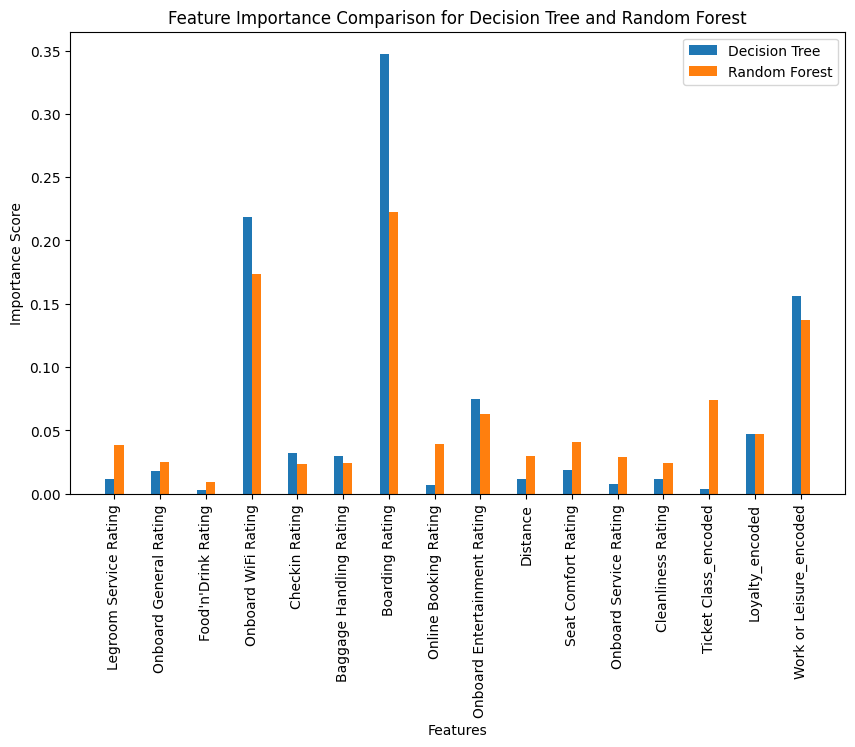
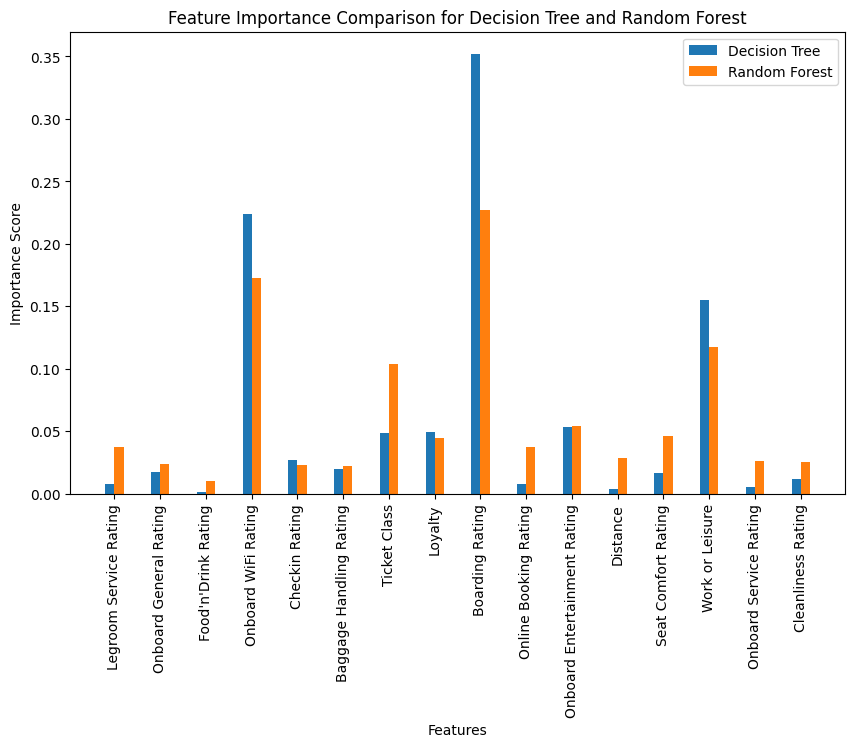
Last commit

diff --git a/README.md b/README.md
@@ -87,13 +87,13 @@ As our target variable, 'Satisfied,' is categorical, and our objective is to pre
 Learning curves illustrate how a model's performance evolves as it's trained on varying amounts of data, revealing insights into overfitting, underfitting, and the impact of dataset size on model accuracy. Learning curves are crucial because they show how the model's performance varies with the size of the training set. They can reveal issues such as overfitting or underfitting. In addition, they can help us determine whether collecting more data would be useful. In this section, we are going to visualize and comment the learning curves for each model.
 - 6.1) Logistic Regression: The learning curve for the logistic regression model is reported in the following plot: <br>  
 <img src="images/Learning_Curve_Logistic_Regression.png" width="500" height="400"> <br>  
-As we can see, the training score and the cross validation score converges to a value that is not really high, indicating that the model is still not enough complex. However, the fact that the results are the same for both the training and the validation set indicates that the model is not overfitting. 
+As we can see, the learning curve present a strange behavior: the training score is at its maximum with a lower amount of data, then it starts decreasing (maybe because the model becoming less complex). This idea is supported by the fact that the learning curve is initially increasing in the validation set. However, the two curves converges at the value 0.87, which is not a really bad result. In addition, since the performance on unseen data is increasing, the model is improving its ability to generalize.
 - 6.2) Decision Tree: The learning curve for the decision tree model is reported in the following plot: <br>  
 <img src="images/Learning_Curve_Decision_Tree.png" width="500" height="400"> <br>
 In this plot, we can observe that the training score is always higher than the cross validation score: decision trees are indeed prone to overfitting. However, even if the training score is higher than the cross validation score, the two scores are really close with a large amount of data, indicating that the model is improving its ability to generalize.
 - 6.3) Random Forest: The learning curve for the random forest model is reported in the following plot: <br>
 <img src="images/Learning_Curve_Random_Forests.png" width="500" height="400"> <br>
-In this plot, we can observe that the training score is always higher than the cross validation score: random forests are indeed prone to overfitting. However, in this case the training score is decreasing, indicating that the model is becoming less complex, improving its ability to generalize. In addittion, the performance on unseen data is increasing, indicating, confirming the previous statement.
+In this plot, we can observe that the training score is almost constant: the model is slightly overfitting, even if the validation score is increasing and its value is higher than the validation score of the decision tree model. In addition, the two curves are starting to converge, indicating that the model is improving its ability to generalize.
 
 
 ### 7) Models Evaluation
@@ -167,7 +167,7 @@ After the hyperparameter tuning, we evaluated the models' performance using the 
 <img src="images/Confusion_Matrices.png" width="700" height="200"> <br>
 <br> The confusion matrix plots on the y axis the actual value of the target variable for a given set of features and on the x axis the predicted value. It shows the number of true positives (1 on the y axis and 1 on the x axis), true negatives (0 on the y axis and 0 on the x axis), false positives (0 on the y axis and 1 on the x axis) and false negatives (1 on the y axis and 0 on the x axis). In particular, we can observe that the Random Forest model has the best performance, since it has the highest number of true positives and true negatives, and the lowest number of false positives and false negatives.  
 Another relevant metric to evaluate the model's performance is the ROC-AUC score, which is a measure of the model's ability to distinguish between classes. The ROC-AUC score is computed by plotting the true positive rate (sensitivity) against the false positive rate (1-specificity) for different threshold values. The area under the ROC curve (AUC-ROC) quantifies the model's overall performance, with a higher AUC indicating better discriminatory power. The ROC curves for each model are reported in the following plot:  <br>  
-![GETTING STARTED](/images/ROC_Curves.png)
+<img src="images/ROC_Curves.png" width="700" height="400"> <br>
 
 
 
@@ -182,14 +182,16 @@ The others two model analyzed, Random Forest and Decision Tree, have similar res
 Another important result we can observe is that precision is the highest metric for each model, which is a good thing since we wanted to minimize the number of false positives.  <br>  
 
 <img src="images/Metrics_Results.png" width="700" height="400"> <br>  
-In the case of the Random Forest model, we have the best result, with a precision of 0.97. However, this is also due to the fact that the dataset is not completely balanced, since the ratio satisfied/ total number of customers is 0.42.
+In the case of the Random Forest model, we have the best result, with a precision of 0.97. However, this is also due to the fact that the dataset is not completely balanced, since the ratio satisfied/ total number of customers is 0.42 and this could be a reason for the lower number of false positives. 
 
 ### 3) Analysis of the most important features
 Since we wanted to actually understand the reasons behind the customer satisfaction, we decided to analyze the most important features for each model, assuming that one of the goal of the project is to improve the overall customer satisfaction and hence to understand in which area improvements are needed the most.  
 For random forest and decision tree, feature importance scores represent the contribution of each feature to predictive performance, with a range typically between 0 and 1. In the case of logistic regression, the coefficients indicate the strength and direction of feature influence, with an unbounded range.
 The most important features for decision tree and random forests are reported in the following table: <br>  
 
-<img src="images/Features_random_forests.png" width="1000" height="600"><br>  
+<img src="images/Features_random_forests.png" width="800" height="600"><br>  
 Since the coefficients for the logistic regression are scaled differently from the other two models, we decided to plot the coefficients for the logistic regression model in a separate plot: <br>  
-<img src="images/Coefficients_logistic_regression.png" width="1000" height="600"><br>  
-As we can see, in every case the most important features are 'Boarding Rating' and 'Work or Leisure'. We were not surprised by the fact that 'Boarding Rating' is the most important feature, since it is the first impression the customer has of the service. However, we were surprised by the fact that 'Work or Leisure' is the second most important feature, since we thought that the reason behind the customer satisfaction was related to the quality of the service and not to the reason of the travel. For this reason, we conducted a further analysis on this feature.
+<img src="images/Coefficients_logistic_regression.png" width="800" height="600"><br>  
+As we can see, in every case the most important features are 'Boarding Rating' and 'Work or Leisure'. We were not surprised by the fact that 'Boarding Rating' is the most important feature, since it is the first impression the customer has of the service. However, we were surprised by the fact that 'Work or Leisure' is the second most important feature, since we thought that the reason behind the customer satisfaction was related to the quality of the service and not to the reason of the travel. For this reason, we conducted a further analysis on this feature.  <br>  
+<img src="images/Work_Leisure.png" width="600" height="400"><br>  
+As evident from the analysis, customers traveling for leisure purposes consistently express lower satisfaction with the service. This observation may stem from the heightened expectations of leisure travelers, who tend to be more discerning compared to those traveling for work. It's plausible that these customers, in an effort to manage expenses, prioritize cost-effective ticket options. Furthermore, leisure travelers often journey with family members, rendering them more attuned to service quality and consequently, more sensitive to their overall experience.
